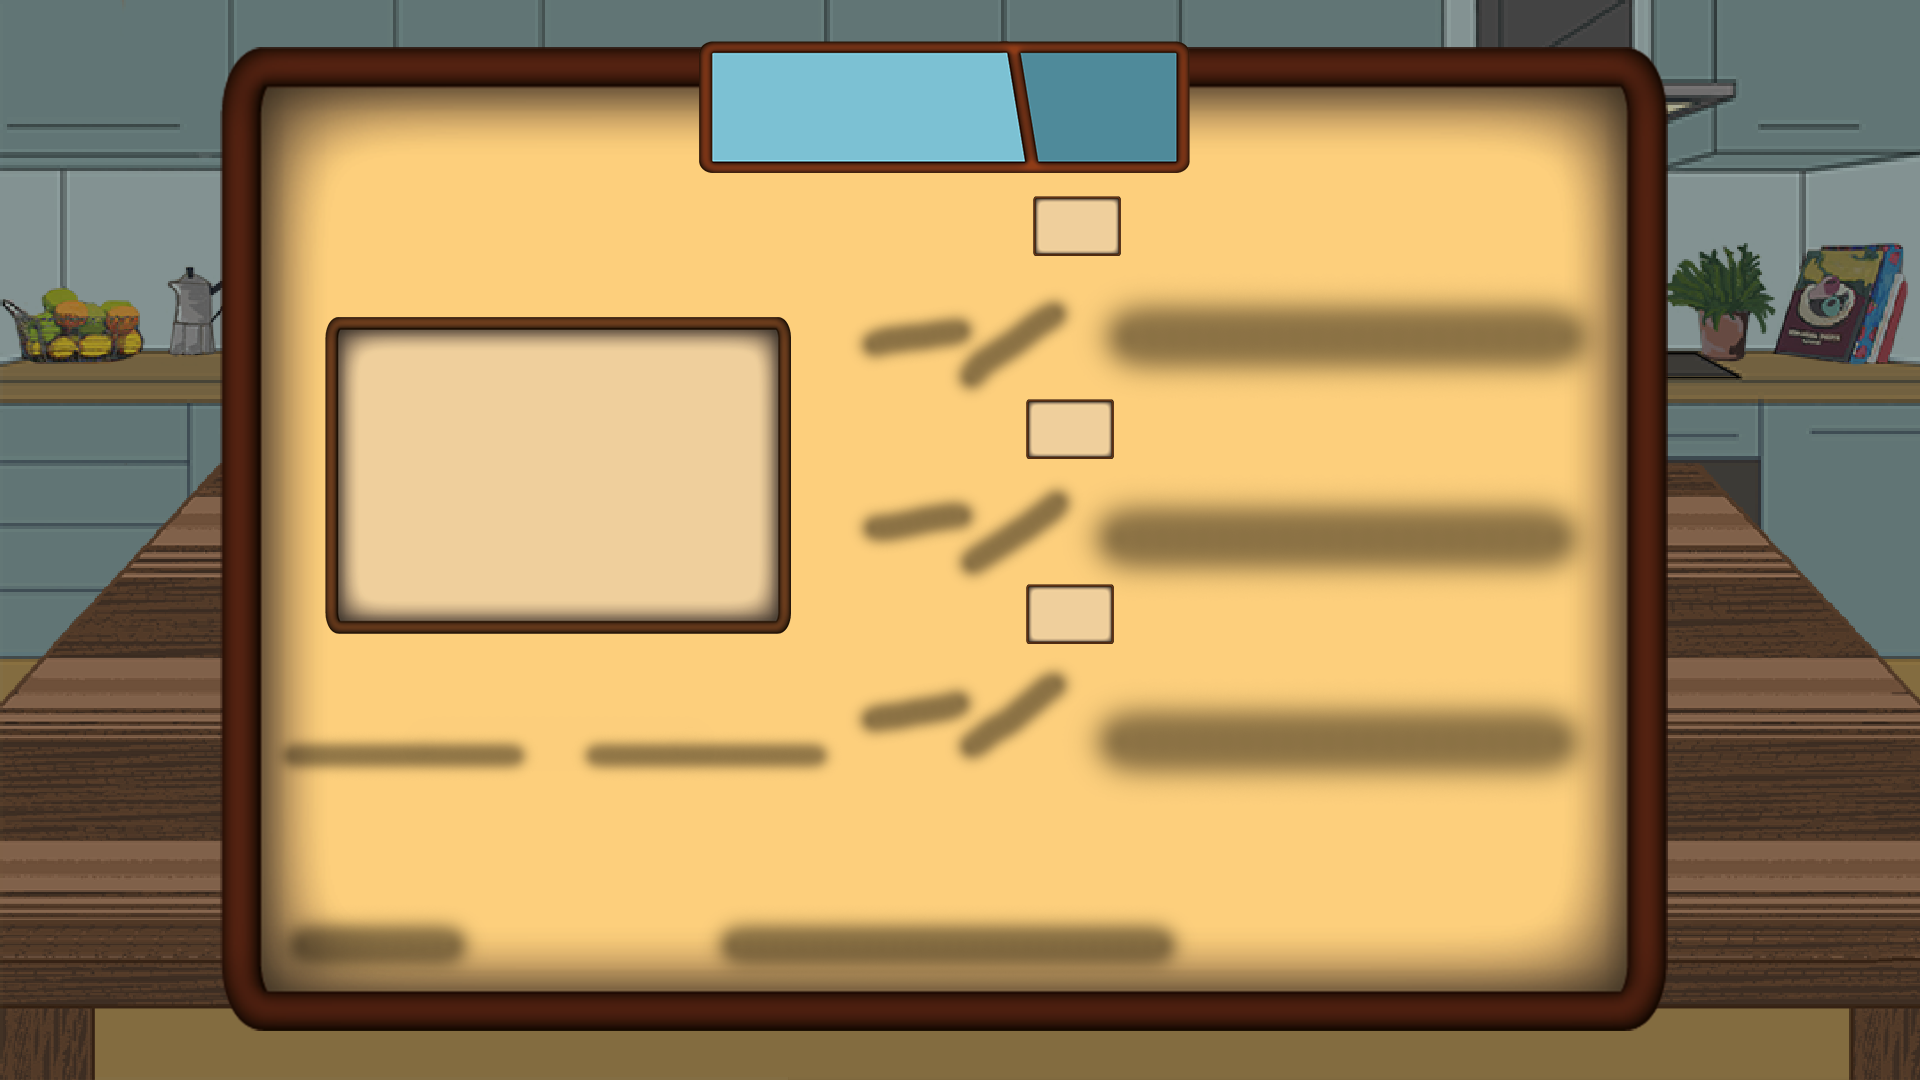
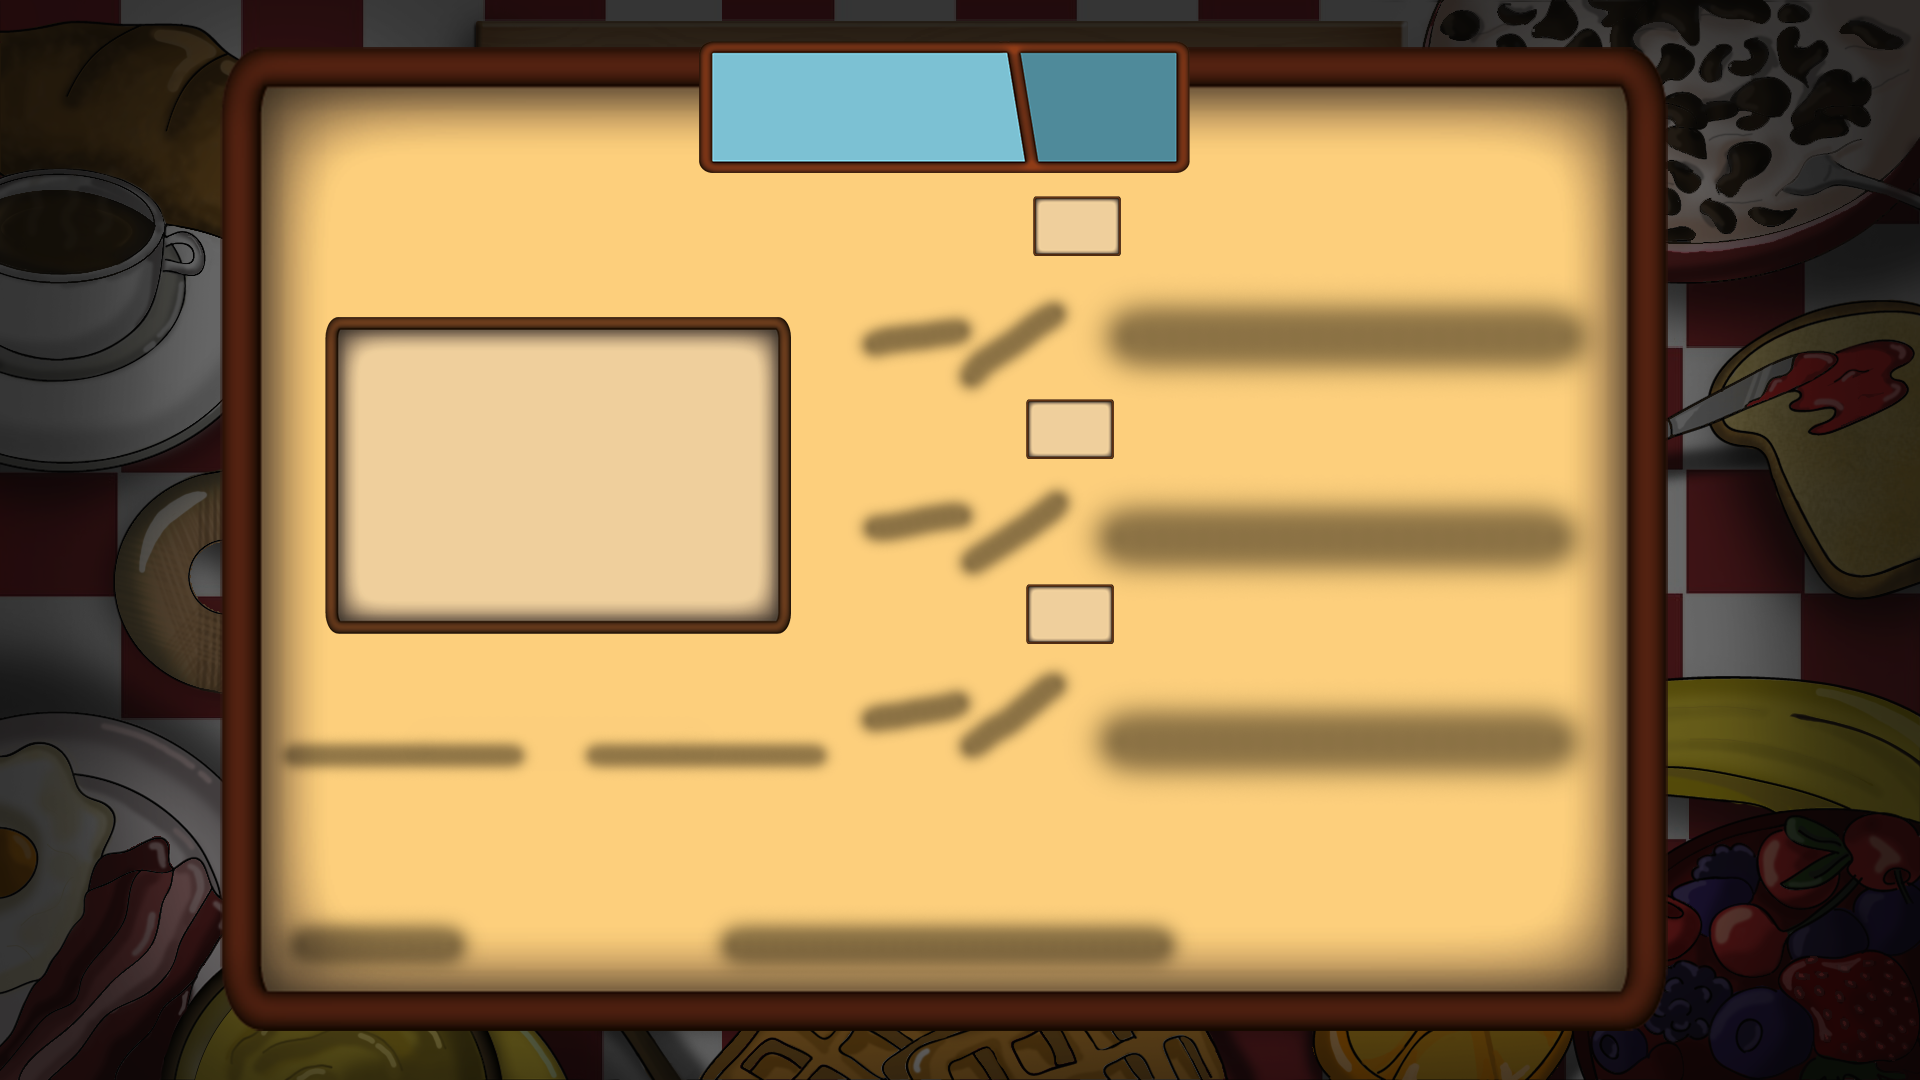
Actualización interfaces
- Añadidos stats de todos los personajes jugables en sus respectivas pantallas.
- Añadido texto descriptivo de los jefes.
- Cambiado fondo preparación

Changed region(s): [[0.0, 0.0, 1.0, 1.0]]

diff --git a/src/static/js/escenas/escenasTutorial/personajesStats/jefe.js b/src/static/js/escenas/escenasTutorial/personajesStats/jefe.js
@@ -24,6 +24,25 @@ export default class Jefe extends Phaser.Scene {
       .image(800, 525, "mermelada")
       .setScale(2.5);
 
+    let textoSpanish = "Al activar el \n" + 
+    " potenciador, el jefe \n aparecerá en medio \n de la línea" + 
+    " acabando \n con cada enemigo de \n uno en uno" +
+    " hasta que \n se consuma."
+
+    let textoEnglish = "When the power-up \n" +
+    " is activated, the boss \n will appear in the \n middle of the row \n" +
+    " killing every enemy \n until it consumes."
+
+    let textoJefe = this.make.text({
+      x: 1020,
+      y: 370,
+      text: APIJuego.lenguage === "spanish" ? textoSpanish : textoEnglish,
+      style: {
+        color: "black",
+        font: "30px 'Sigmar One'",
+      },
+    });
+
     let clickButtonOK = this.add
       .image(940, 780, "OK")
       .setScale(0.3)
@@ -37,6 +56,7 @@ export default class Jefe extends Phaser.Scene {
       .on("pointerdown", function () {
         let lenguage = APIJuego.setLenguage();
         cartelJefe.setTexture(lenguage + "_jefe");
+        APIJuego.cambiarTexto(textoJefe, APIJuego.lenguage === "spanish" ? textoSpanish : textoEnglish)
         clickButtonIdioma.setTexture(
           lenguage === "spanish" ? "english" : "spanish"
         );

diff --git a/src/static/js/escenas/escenasTutorial/personajesStats/atacante.js b/src/static/js/escenas/escenasTutorial/personajesStats/atacante.js
@@ -18,9 +18,32 @@ export default class Atacante extends Phaser.Scene {
       .image(940, 135, APIJuego.lenguage + "_atacante")
       .setScale(0.73);
 
-    let personajeAtacante = this.add
-      .image(700, 500, "atacante")
-      .setScale(1.5);
+    let personajeAtacante = this.add.image(700, 500, "atacante").setScale(1.5);
+
+    let textoAtacante = this.make.text({
+      x: 1020,
+      y: 370,
+      text:
+        "ATK: " +
+        bdInfoPersonajes.atacante.atk +
+        "\n" +
+        "HP: " +
+        bdInfoPersonajes.atacante.hp +
+        "\n" +
+        "VEL: " +
+        bdInfoPersonajes.atacante.vel +
+        "\n" +
+        "DPS: " +
+        bdInfoPersonajes.atacante.dps +
+        "\n" +
+        "RANGO: " +
+        bdInfoPersonajes.atacante.rango +
+        "\n",
+      style: {
+        color: "black",
+        font: "45px 'Sigmar One'",
+      },
+    });
 
     let clickButtonOK = this.add
       .image(940, 780, "OK")

diff --git a/src/static/js/escenas/escenasTutorial/personajesStats/defensor.js b/src/static/js/escenas/escenasTutorial/personajesStats/defensor.js
@@ -18,9 +18,32 @@ export default class Defensor extends Phaser.Scene {
       .image(940, 135, APIJuego.lenguage + "_defensor")
       .setScale(0.73);
 
-    let personajeDistancia = this.add
-      .image(700, 500, "defensor")
-      .setScale(1.5);
+    let personajeDefensor = this.add.image(700, 500, "defensor").setScale(1.5);
+
+    let textoDefensor = this.make.text({
+      x: 1020,
+      y: 370,
+      text:
+        "ATK: " +
+        bdInfoPersonajes.tank.atk +
+        "\n" +
+        "HP: " +
+        bdInfoPersonajes.tank.hp +
+        "\n" +
+        "VEL: " +
+        bdInfoPersonajes.tank.vel +
+        "\n" +
+        "DPS: " +
+        bdInfoPersonajes.tank.dps +
+        "\n" +
+        "RANGO: " +
+        bdInfoPersonajes.tank.rango +
+        "\n",
+      style: {
+        color: "black",
+        font: "45px 'Sigmar One'",
+      },
+    });
 
     let clickButtonOK = this.add
       .image(940, 780, "OK")

diff --git a/src/static/js/classPersonajes.js b/src/static/js/classPersonajes.js
@@ -11,7 +11,7 @@ export default class Personaje extends Phaser.Physics.Arcade.Sprite{
 
 correr = function(){
     this.state = "corriendo"
-    if (APIJuego.getRandom(0, 1000) < 1) {
+    if (APIJuego.getRandom(0, 600) < 1) {
         switch(APIJuego.getRandom(0, 2)){
             case 1:
                 APIJuego.playSonido("gritito1")
@@ -66,7 +66,14 @@ recargar = function(){
 
 morir = function(){
     this.state = "muriendo"
-    APIJuego.playSonido("muerte")
+    switch (APIJuego.getRandom(0, 2)) {
+        case 1: 
+            APIJuego.playSonido("muerte")
+            break;
+        case 2:
+            APIJuego.playSonido("muerte3")
+            break;
+    }
     this.playAnimation("muerte")
     this.once("animationcomplete", ()=>{
         APIJuego.eliminarPersonaje(this.id)

diff --git a/src/static/js/escenas/escenasTutorial/personajesStats/distancia.js b/src/static/js/escenas/escenasTutorial/personajesStats/distancia.js
@@ -22,6 +22,31 @@ export default class Distancia extends Phaser.Scene {
       .image(700, 500, "distancia")
       .setScale(1.5);
 
+    let textoDistancia = this.make.text({
+      x: 1020,
+      y: 370,
+      text:
+        "ATK: " +
+        bdInfoPersonajes.distancia.atk +
+        "\n" +
+        "HP: " +
+        bdInfoPersonajes.distancia.hp +
+        "\n" +
+        "VEL: " +
+        bdInfoPersonajes.distancia.vel +
+        "\n" +
+        "DPS: " +
+        bdInfoPersonajes.distancia.dps +
+        "\n" +
+        "RANGO: " +
+        bdInfoPersonajes.distancia.rango +
+        "\n",
+      style: {
+        color: "black",
+        font: "45px 'Sigmar One'",
+      },
+    });
+
     let clickButtonOK = this.add
       .image(940, 780, "OK")
       .setScale(0.3)

diff --git a/src/static/js/escenas/escenasTutorial/personajesStats/velocista.js b/src/static/js/escenas/escenasTutorial/personajesStats/velocista.js
@@ -22,6 +22,31 @@ export default class Velocista extends Phaser.Scene {
       .image(700, 500, "velocista")
       .setScale(1.5);
 
+    let textoDistancia = this.make.text({
+      x: 1020,
+      y: 370,
+      text:
+        "ATK: " +
+        bdInfoPersonajes.veloz.atk +
+        "\n" +
+        "HP: " +
+        bdInfoPersonajes.veloz.hp +
+        "\n" +
+        "VEL: " +
+        bdInfoPersonajes.veloz.vel +
+        "\n" +
+        "DPS: " +
+        bdInfoPersonajes.veloz.dps +
+        "\n" +
+        "RANGO: " +
+        bdInfoPersonajes.veloz.rango +
+        "\n",
+      style: {
+        color: "black",
+        font: "45px 'Sigmar One'",
+      },
+    });
+
     let clickButtonOK = this.add
       .image(940, 780, "OK")
       .setScale(0.3)

diff --git a/src/static/js/gameAPI.js b/src/static/js/gameAPI.js
@@ -148,6 +148,7 @@ export default class GameAPI {
     this.escena.load.audio("hit2", "assets/audio/efectos/hit2.mp3");
     this.escena.load.audio("hit3", "assets/audio/efectos/hit3.mp3");
     this.escena.load.audio("muerte", "assets/audio/efectos/muerte.mp3");
+    this.escena.load.audio("muerte3", "assets/audio/efectos/muerte3.mp3");
 
     // ---------------- SPRITES ANIMACIONES -------------------
     for (let i in dbAnimations) {

diff --git a/src/static/js/bdPersonajes.js b/src/static/js/bdPersonajes.js
@@ -23,8 +23,6 @@ let bdInfoPersonajes = {
         "dps":  1,
         "rango": 1,
         "priority": 2,
-        
-
     },
     
     "atacante":{
